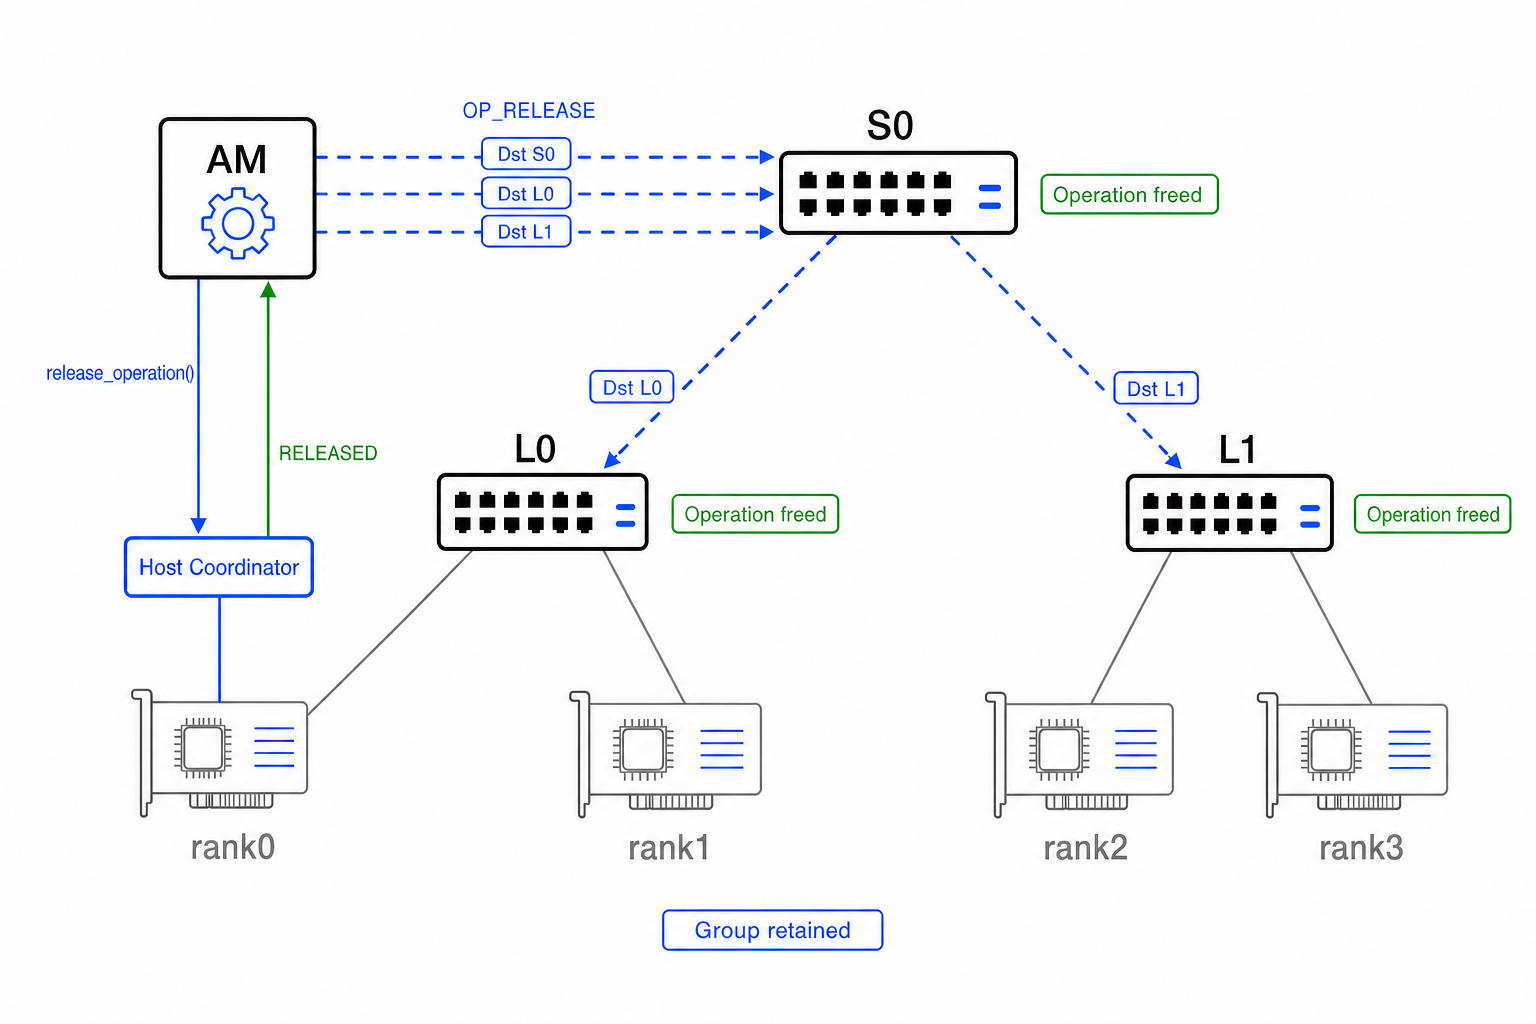
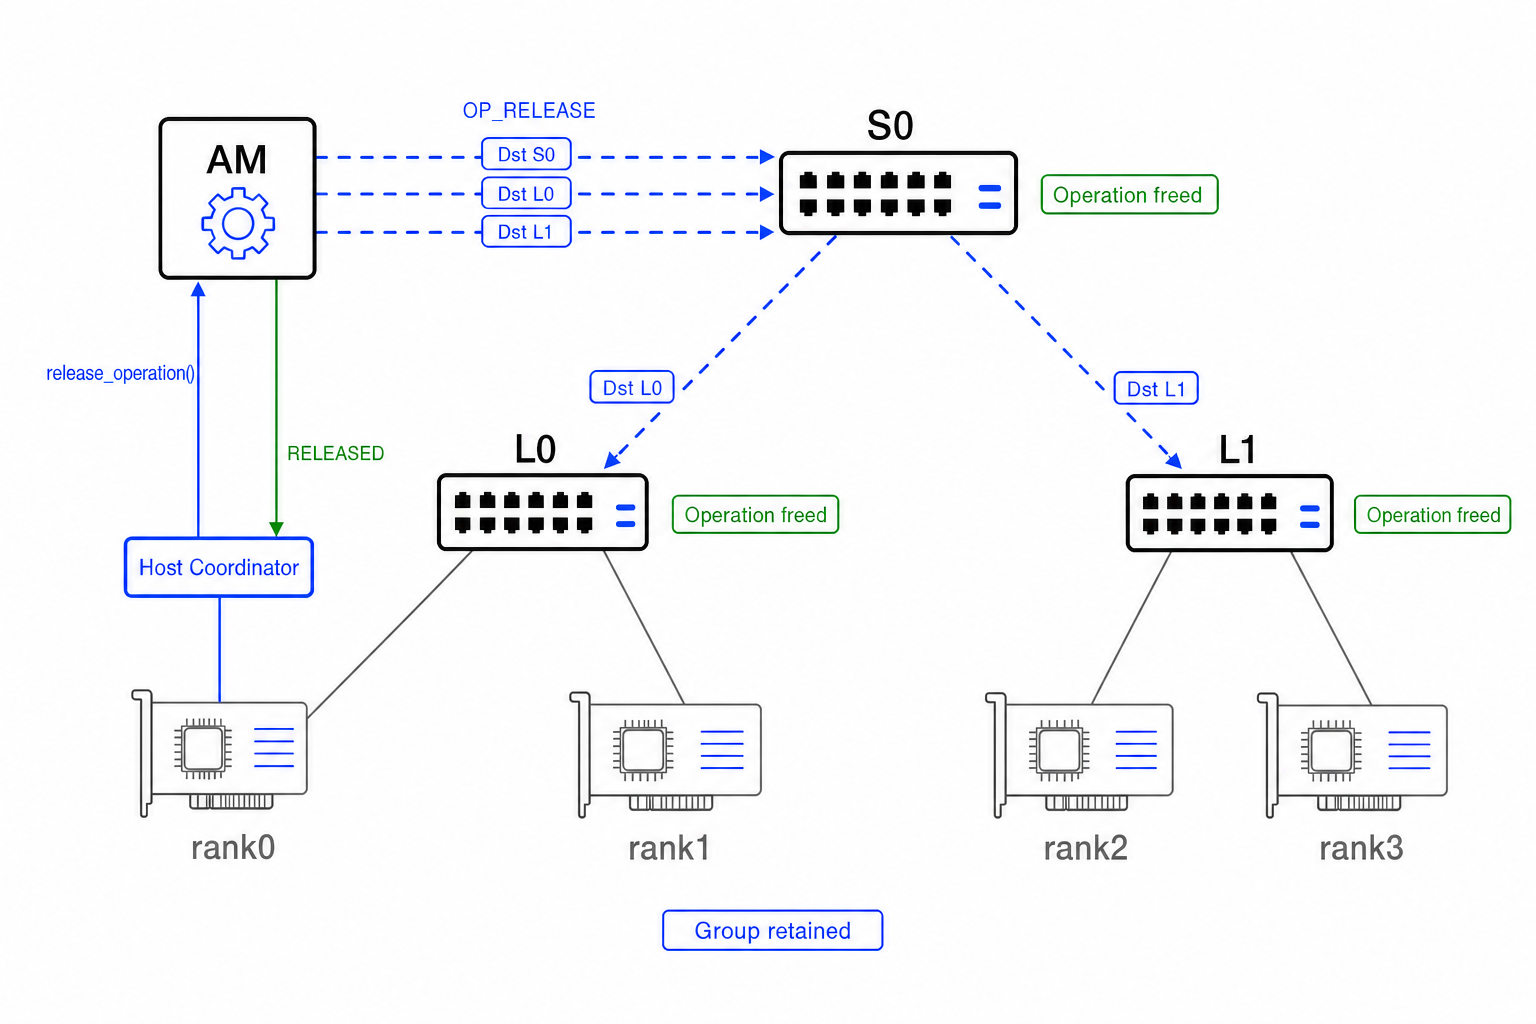
updated

diff --git a/docs/chapters/3-architecture/protocol.it.md b/docs/chapters/3-architecture/protocol.it.md
@@ -118,6 +118,19 @@ una foglia, i Contributor ID identificano normalmente i rank; in un nodo interno
 identificano i sottoalberi figli. I Contributor ID sono densi e associati a una
 porta di ingresso e a un MAC sorgente attesi.
 
+### Ruoli dei nodi e caso con un solo switch
+
+`Node Role` descrive la posizione di uno switch nell'**albero logico della
+collettiva**. Non modifica il ruolo Ethernet fisico dello switch né la politica
+di inoltro dei frame non locali.
+
+| Ruolo | Contributori locali | Parent | Comportamento nella collettiva |
+|---|---|---|---|
+| `LEAF` | Rank collegati direttamente | Obbligatorio | Riduce i contributi locali ed emette uno stream DATA parziale verso il parent |
+| `INTERNAL` | Sottoalberi figli | Obbligatorio | Riduce i parziali dei figli ed emette un nuovo stream DATA parziale verso il parent |
+| `ROOT` | Sottoalberi figli | Assente | Completa la riduzione e avvia la distribuzione del risultato |
+| `SINGLE` | Rank collegati direttamente | Assente | Completa localmente la riduzione e avvia la distribuzione del risultato senza emettere un parziale upstream |
+
 ---
 
 ## Suddivisione in chunk
@@ -1312,18 +1325,35 @@ I valori dei formati wire e degli accumulatori sono assegnazioni di registro,
 non dichiarazioni di supporto. Gli elementi INT8 sono byte con segno in
 complemento a due; FP16 e FP32 trasportano i bit IEEE 754 binary16 e binary32;
 BF16 trasporta un bit di segno, otto bit di esponente e sette bit di frazione.
-I pattern su più byte sono inviati dal byte più significativo al meno
-significativo.
 
 Un nodo supporta l'aritmetica soltanto tramite una tupla dichiarata
-esplicitamente `(input_format, accumulator_mode, output_format)`. L'RTL attuale
-non fissa ancora il comportamento richiesto per arrotondamento, overflow intero,
-NaN, infinito, subnormal e zero con segno: questa bozza pre-implementazione non
-dichiara quindi alcuna tupla come semantica RTL implementata. La tupla FP32 /
-`DETERMINISTIC_FP32` / FP32 nella capability host di riferimento serve a
-verificare la codifica wire, non dichiara supporto hardware. Quando sarà
-implementato, `DETERMINISTIC_FP32` userà l'ordine crescente dei Contributor ID
-locali.
+esplicitamente `(input_format, accumulator_mode, output_format)`. Il Protocollo
+1.0 congela una tupla di riferimento per l'operatore `SUM`:
+
+\[
+(\mathrm{FP32},\ \mathrm{DETERMINISTIC\_FP32},\ \mathrm{FP32}).
+\]
+
+Un'implementazione che dichiara questa tupla rispetta le seguenti semantiche
+normative:
+
+- ogni input e output è un pattern di bit IEEE 754 `binary32`;
+- i contributori vengono combinati in ordine strettamente crescente di
+  Contributor ID locale, iniziando dal valore con ID minore; non viene inserito
+  uno zero iniziale;
+- ogni addizione binaria viene eseguita in `binary32` e arrotondata
+  immediatamente al più vicino con spareggio al pari; non sono ammessi
+  intermedi fusi o a precisione maggiore;
+- input e risultati subnormal usano l'underflow graduale e non vengono forzati
+  a zero;
+- l'overflow di valori finiti produce l'infinito con il segno corretto;
+- gli infiniti seguono l'addizione IEEE 754, incluso il risultato non valido di
+  `+infinito + -infinito`;
+- qualunque input NaN, signaling NaN o addizione non valida produce il quiet NaN
+  canonico con pattern `0x7FC00000`; il payload del NaN non viene propagato;
+- la somma di zeri con lo stesso segno conserva quel segno; una somma esattamente
+  nulla di operandi con segno opposto produce `+0` con l'arrotondamento scelto;
+- il Protocollo 1.0 non trasporta flag di eccezione aritmetica né trap.
 
 I codici degli accumulatori esatti descrivono un accumulo finito locale al nodo.
 Non garantiscono esattezza globale indipendente dall'albero quando una somma

diff --git a/docs/chapters/3-architecture/protocol.md b/docs/chapters/3-architecture/protocol.md
@@ -113,6 +113,19 @@ Each switch stores only its local part of a logical group. At a leaf, Contributo
 IDs normally identify ranks. At an internal node, they identify child subtrees.
 Contributor IDs are dense and bound to an expected ingress port and source MAC.
 
+### Node roles and the single-switch case
+
+`Node Role` describes the position of one switch in the **logical collective
+tree**. It does not change the switch's physical Ethernet role or the forwarding
+policy for non-local frames.
+
+| Role | Local contributors | Parent | Collective behavior |
+|---|---|---|---|
+| `LEAF` | Directly attached ranks | Required | Reduces local contributions and emits one partial DATA stream toward its parent |
+| `INTERNAL` | Child subtrees | Required | Reduces child partials and emits one new partial DATA stream toward its parent |
+| `ROOT` | Child subtrees | None | Completes the reduction and starts result distribution |
+| `SINGLE` | Directly attached ranks | None | Completes the reduction locally and starts result distribution without emitting an upstream partial |
+
 ---
 
 ## Chunking model
@@ -1264,17 +1277,35 @@ The `FEATURE_MASK` and `SUPPORTED_RELIABILITY_FEATURES` bit assignments are:
 Wire-format and accumulator values are registry assignments, not support
 claims. INT8 payload elements are signed two's-complement bytes; FP16 and FP32
 carry IEEE 754 binary16 and binary32 bit patterns; BF16 carries one sign bit,
-eight exponent bits, and seven fraction bits. Multibyte bit patterns are sent
-most-significant byte first.
+eight exponent bits, and seven fraction bits.
 
 A node supports arithmetic only through an explicitly advertised
-`(input_format, accumulator_mode, output_format)` tuple. The present RTL does
-not yet freeze the required rounding, integer-overflow, NaN, infinity,
-subnormal, or signed-zero behavior, so no tuple is claimed as implemented RTL
-semantics in this pre-implementation draft. The FP32 / `DETERMINISTIC_FP32` /
-FP32 tuple in the host reference capability is a wire-encoding test fixture,
-not a hardware-support claim. When implemented, `DETERMINISTIC_FP32` uses
-ascending local Contributor ID order.
+`(input_format, accumulator_mode, output_format)` tuple. Protocol 1.0 freezes
+one baseline tuple for the `SUM` operator:
+
+\[
+(\mathrm{FP32},\ \mathrm{DETERMINISTIC\_FP32},\ \mathrm{FP32}).
+\]
+
+An implementation advertising this tuple obeys the following normative
+semantics:
+
+- each input and output is an IEEE 754 `binary32` bit pattern;
+- contributors are folded in strictly ascending local Contributor ID order,
+  starting with the value from the lowest ID; no zero seed is inserted;
+- every binary addition is performed in `binary32` and rounded immediately
+  using round-to-nearest, ties-to-even; fused or wider intermediate arithmetic
+  is not permitted;
+- subnormal inputs and results use gradual underflow and are not flushed to
+  zero;
+- finite overflow produces the correctly signed infinity;
+- infinity follows IEEE 754 addition, including an invalid `+infinity +
+  -infinity` result;
+- any NaN input, signaling NaN, or invalid addition produces the canonical
+  quiet NaN bit pattern `0x7FC00000`; no NaN payload is propagated;
+- same-sign zero addition preserves that sign; an exact zero sum of opposite
+  signs is `+0` under the selected rounding mode;
+- arithmetic exception flags and traps are not transported by Protocol 1.0.
 
 The exact accumulator codes describe node-local finite accumulation. They do
 not provide global tree-independent exactness when a partial is serialized as
